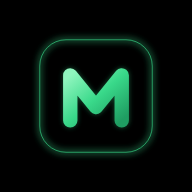
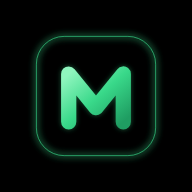
v2.8: ไอคอนแอพเป็นแบบเดียวกับโลโก้ในแอพ ขยายชดเชยที่มือถือย่อให้ (โลโก้ในแอพคงเดิม)
- หลังย้อน v2.7 โลโก้ในแอพกลับเป็นแบบเดิมที่ Han ชอบ
- ไอคอนแอพ: คงสัดส่วนกรอบกับตัว M เหมือนโลโก้ในแอพทุกอย่าง แต่ขยายทั้งก้อน 1.06 เท่า ให้กรอบชิดขอบที่มือถือแสดงจริง (เดิมขอบเล็กลงเพราะมือถือครอปไอคอนเหลือประมาณ 65%)
- PNG 192/512 สร้างใหม่

Claude-Session: https://claude.ai/code/session_01C2wS7NNPrkVhQf5fYeCgCQ

Changed region(s): [[0.1562, 0.1562, 0.8438, 0.8438], [0.3125, 0.3438, 0.6875, 0.6875]]

diff --git a/sub/app.js b/sub/app.js
@@ -1,17 +1,17 @@
-import { alignLinesToWords, refineSegmentBoundariesWithEnergy } from './aligner.js?v=2.6';
-import { buildSrt } from './srt.js?v=2.6';
-import { callGroqWhisper, buildTranscriptForGemini, callGeminiSplit, removeThaiSpaces, GEMINI_MODELS, DEFAULT_GEMINI_MODEL } from './ai.js?v=2.6';
-import { loadMediabunny, decodeAudioFile, isVideoFile, extractAudioFromVideo, audioBufferToWavBlob } from './media.js?v=2.6';
-import { CANVAS_W, FONT_FAMILY, BOTTOM_MARGIN_RATIO, renderVideo } from './render.js?v=2.6';
-import { createTrimEditor } from './waveform.js?v=2.6';
-import { setupFineSlider, createStagedProgress, escapeHtml, getReliableDuration } from './ui.js?v=2.6';
-import { setupVoicePicker } from './voicepick.js?v=2.6';
+import { alignLinesToWords, refineSegmentBoundariesWithEnergy } from './aligner.js?v=2.8';
+import { buildSrt } from './srt.js?v=2.8';
+import { callGroqWhisper, buildTranscriptForGemini, callGeminiSplit, removeThaiSpaces, GEMINI_MODELS, DEFAULT_GEMINI_MODEL } from './ai.js?v=2.8';
+import { loadMediabunny, decodeAudioFile, isVideoFile, extractAudioFromVideo, audioBufferToWavBlob } from './media.js?v=2.8';
+import { CANVAS_W, FONT_FAMILY, BOTTOM_MARGIN_RATIO, renderVideo } from './render.js?v=2.8';
+import { createTrimEditor } from './waveform.js?v=2.8';
+import { setupFineSlider, createStagedProgress, escapeHtml, getReliableDuration } from './ui.js?v=2.8';
+import { setupVoicePicker } from './voicepick.js?v=2.8';
 
 // ===== ที่เก็บข้อมูลร่วมกับแอพหลัก (MWStore จาก ../store.js) — service worker ของแอพหลักคุมหน้านี้อยู่แล้ว =====
   const S = window.MWStore;
   await S.ready;
   // สคริปต์ของแอพหลักที่หน้านี้ยืมใช้ — โหลดหลังข้อมูลพร้อม ถ้าโหลดไม่ได้ก็ใช้ต่อได้ (budget = เพดานค่า AI ตอนถอยไป OpenRouter · r2 + voicestore = เสียงที่เจนไว้)
-  for (const src of ['../budget.js?v=2.6', '../r2.js?v=2.6', '../voicestore.js?v=2.6']) {
+  for (const src of ['../budget.js?v=2.8', '../r2.js?v=2.8', '../voicestore.js?v=2.8']) {
     await new Promise((ok) => { const el = document.createElement('script'); el.src = src; el.onload = el.onerror = ok; document.body.appendChild(el); });
   }
   const GROQ_KEY = 'mw_groq_key_v1', GEMINI_KEY = 'mw_gemini_key_v1', OR_KEY = 'mw_openrouter_key_v1', SUB_CFG = 'mw_sub_cfg_v1'; // key ตั้งที่แอพหลัก > ตั้งค่า

diff --git a/footage.html b/footage.html
@@ -5,12 +5,12 @@
 <meta name="viewport" content="width=device-width, initial-scale=1, viewport-fit=cover" />
 <meta name="theme-color" content="#0b0e0d" />
 <title>ฟุตเทจ · Meowrin factory</title>
-<link rel="icon" type="image/png" href="icon-192.png?v=2.6">
-<link rel="apple-touch-icon" href="icon-192.png?v=2.6">
+<link rel="icon" type="image/png" href="icon-192.png?v=2.8">
+<link rel="apple-touch-icon" href="icon-192.png?v=2.8">
 <link rel="preconnect" href="https://fonts.googleapis.com">
 <link rel="preconnect" href="https://fonts.gstatic.com" crossorigin>
 <link href="https://fonts.googleapis.com/css2?family=IBM+Plex+Sans+Thai:wght@400;500;600&family=Mitr:wght@500&display=swap" rel="stylesheet">
-<link rel="stylesheet" href="footage.css?v=2.6">
+<link rel="stylesheet" href="footage.css?v=2.8">
 </head>
 <body>
 <header>
@@ -232,6 +232,6 @@
 <input id="pickDocs" type="file" multiple hidden><!-- ไม่ใส่ accept → Android เปิดแอพไฟล์ (เข้าโฟลเดอร์ + เลือกทั้งหมดได้) แทนตัวเลือกรูป -->
 <video id="vid" muted playsinline preload="auto" style="position:fixed;left:-9999px;width:2px;height:2px"></video>
 
-<script src="store.js?v=2.6" data-boot="icons.js?v=2.6 dialog.js?v=2.6 budget.js?v=2.6 footage-core.js?v=2.6 r2.js?v=2.6 footage.js?v=2.6 footage-find.js?v=2.6 footage-dup.js?v=2.6 footage-audit.js?v=2.6 footage-cloud.js?v=2.6 mp4fix.js?v=2.6 footage-stitch.js?v=2.6 voicestore.js?v=2.6 footage-plan.js?v=2.6 gdrive.js?v=2.6"></script>
+<script src="store.js?v=2.8" data-boot="icons.js?v=2.8 dialog.js?v=2.8 budget.js?v=2.8 footage-core.js?v=2.8 r2.js?v=2.8 footage.js?v=2.8 footage-find.js?v=2.8 footage-dup.js?v=2.8 footage-audit.js?v=2.8 footage-cloud.js?v=2.8 mp4fix.js?v=2.8 footage-stitch.js?v=2.8 voicestore.js?v=2.8 footage-plan.js?v=2.8 gdrive.js?v=2.8"></script>
 </body>
 </html>

diff --git a/index.html b/index.html
@@ -4,19 +4,19 @@
 <meta charset="UTF-8" />
 <meta name="viewport" content="width=device-width, initial-scale=1, viewport-fit=cover" />
 <meta name="theme-color" content="#0b0e0d" />
-<link rel="manifest" href="manifest.json?v=2.6">
+<link rel="manifest" href="manifest.json?v=2.8">
 <meta name="mobile-web-app-capable" content="yes">
 <meta name="apple-mobile-web-app-capable" content="yes">
 <meta name="apple-mobile-web-app-status-bar-style" content="black-translucent">
 <meta name="apple-mobile-web-app-title" content="Meowrin">
-<link rel="icon" type="image/png" href="icon-192.png?v=2.6">
-<link rel="apple-touch-icon" href="icon-192.png?v=2.6">
+<link rel="icon" type="image/png" href="icon-192.png?v=2.8">
+<link rel="apple-touch-icon" href="icon-192.png?v=2.8">
 <title>Meowrin factory</title>
 <link rel="preconnect" href="https://fonts.googleapis.com">
 <link rel="preconnect" href="https://fonts.gstatic.com" crossorigin>
 <link href="https://fonts.googleapis.com/css2?family=IBM+Plex+Sans+Thai:wght@400;500;600&family=Mitr:wght@500&display=swap" rel="stylesheet">
-<link rel="stylesheet" href="style.css?v=2.6">
-<link rel="stylesheet" href="sheet.css?v=2.6">
+<link rel="stylesheet" href="style.css?v=2.8">
+<link rel="stylesheet" href="sheet.css?v=2.8">
 </head>
 <body>
 <div class="wrap">
@@ -400,6 +400,6 @@
   </div>
 </div>
 
-<script src="store.js?v=2.6" data-boot="version.js?v=2.6 icons.js?v=2.6 dialog.js?v=2.6 budget.js?v=2.6 sync.js?v=2.6 app.js?v=2.6 llm.js?v=2.6 ai.js?v=2.6 r2.js?v=2.6 voicestore.js?v=2.6 tts.js?v=2.6 gdrive.js?v=2.6"></script>
+<script src="store.js?v=2.8" data-boot="version.js?v=2.8 icons.js?v=2.8 dialog.js?v=2.8 budget.js?v=2.8 sync.js?v=2.8 app.js?v=2.8 llm.js?v=2.8 ai.js?v=2.8 r2.js?v=2.8 voicestore.js?v=2.8 tts.js?v=2.8 gdrive.js?v=2.8"></script>
 </body>
 </html>

diff --git a/sub/index.html b/sub/index.html
@@ -4,22 +4,22 @@
 <meta charset="UTF-8">
 <meta name="viewport" content="width=device-width, initial-scale=1.0, maximum-scale=1.0, viewport-fit=cover">
 <title>ซับจอเขียว · Meowrin factory</title>
-<link rel="icon" type="image/png" href="../icon-192.png?v=2.6">
+<link rel="icon" type="image/png" href="../icon-192.png?v=2.8">
 
 <!-- ===== PWA: ใช้ manifest และ service worker ของแอพหลัก (หน้านี้อยู่ในขอบเขตเดียวกัน) ===== -->
-<link rel="manifest" href="../manifest.json?v=2.6">
+<link rel="manifest" href="../manifest.json?v=2.8">
 <meta name="theme-color" content="#0b0e0d">
 <meta name="mobile-web-app-capable" content="yes">
 <meta name="apple-mobile-web-app-capable" content="yes">
 <meta name="apple-mobile-web-app-status-bar-style" content="black-translucent">
 <meta name="apple-mobile-web-app-title" content="Meowrin">
-<link rel="apple-touch-icon" href="../icon-192.png?v=2.6">
+<link rel="apple-touch-icon" href="../icon-192.png?v=2.8">
 <!-- ===== จบบล็อก PWA ===== -->
 
 <link rel="preconnect" href="https://fonts.googleapis.com">
 <link rel="preconnect" href="https://fonts.gstatic.com" crossorigin>
 <link href="https://fonts.googleapis.com/css2?family=Kanit:wght@400;500;700&display=swap" rel="stylesheet">
-<link rel="stylesheet" href="style.css?v=2.6">
+<link rel="stylesheet" href="style.css?v=2.8">
 </head>
 
 <body>
@@ -284,7 +284,7 @@
   </div>
 </div>
 
-<script src="../store.js?v=2.6"></script>
-<script type="module" src="app.js?v=2.6"></script>
+<script src="../store.js?v=2.8"></script>
+<script type="module" src="app.js?v=2.8"></script>
 </body>
 </html>

diff --git a/sub/waveform.js b/sub/waveform.js
@@ -1,7 +1,7 @@
 // waveform.js — กล่องตัดท่อนเสียง: วาดคลื่นเสียง ซูม/บีบนิ้ว แบ่ง/ลบท่อน (ลบแล้วเสียงที่เหลือต่อกันแบบ CapCut) เลิกทำ/ทำซ้ำ
 // แยกออกจาก app.js (v1.16) · state ทั้งหมดของคลื่นเสียงอยู่ในนี้ที่เดียว app.js คุยผ่านค่าที่ createTrimEditor คืนให้
 // audioEl = <audio> ตัวเดียวกับที่ app.js ใช้ (เล่น/กรอ) · trimCard = <details> กล่องตัดท่อนเสียง
-import { computePeaks, buildTrimmedAudioBuffer, audioBufferToWavBlob } from './media.js?v=2.6';
+import { computePeaks, buildTrimmedAudioBuffer, audioBufferToWavBlob } from './media.js?v=2.8';
 
 export function createTrimEditor({ audioEl, trimCard }){
   const waveformScroll = document.getElementById('waveformScroll');

diff --git a/sub/voicepick.js b/sub/voicepick.js
@@ -1,7 +1,7 @@
 // voicepick.js — เลือกเสียงที่เจนไว้ในแอพหลัก (MWVoice ในเครื่อง + คลัง R2 ที่ยังไม่ได้ดึงมา) แยกออกจาก app.js (v1.16)
 // ทางเข้า 2 ทาง: ปุ่ม "เลือกจากเสียงที่เจนไว้ในแอพ" และลิงก์ ?voice=รหัส จากปุ่ม "ทำซับ" ในแท็บเสียงของแอพหลัก
 // loadAudioFile = ตัวเดียวกับตอนแนบไฟล์ (app.js) · rawScriptInput = ช่องสคริปต์ดิบ · fileInfo = กล่องชื่อไฟล์
-import { escapeHtml } from './ui.js?v=2.6';
+import { escapeHtml } from './ui.js?v=2.8';
 
 export function setupVoicePicker({ loadAudioFile, rawScriptInput, fileInfo }){
   const pickVoiceBtn = document.getElementById('pickVoiceBtn');

diff --git a/sub/media.js b/sub/media.js
@@ -1,6 +1,6 @@
 // media.js — ถอดรหัส/ตัด/แปลงเสียง และโหลดไลบรารี mediabunny
 
-const MEDIABUNNY_URL = './vendor/mediabunny.min.js?v=2.6'; // mediabunny 1.54.0 เก็บไว้ในโปรเจกต์ (ไม่ต้องพึ่งอินเทอร์เน็ตตอนเรนเดอร์)
+const MEDIABUNNY_URL = './vendor/mediabunny.min.js?v=2.8'; // mediabunny 1.54.0 เก็บไว้ในโปรเจกต์ (ไม่ต้องพึ่งอินเทอร์เน็ตตอนเรนเดอร์)
 let mediabunnyModulePromise = null;
 export function loadMediabunny(){
   if (!mediabunnyModulePromise) mediabunnyModulePromise = import(MEDIABUNNY_URL);

diff --git a/version.js b/version.js
@@ -2,7 +2,7 @@
    แก้ด้วย `node bump-version.mjs X.Y` เท่านั้น (บวก ?v= ของทุกไฟล์ให้ตรงกันด้วย) · ไม่ต้องแสดงเลขรุ่นที่อื่นอีก */
 (function(){
   "use strict";
-  var VERSION = "2.6";
+  var VERSION = "2.8";
   var el = document.getElementById("appVersion");
   if(el) el.textContent = "Meowrin factory v" + VERSION;
 })();

diff --git a/CLAUDE.md b/CLAUDE.md
@@ -25,7 +25,7 @@
 - `llm.js` ชั้นเรียก AI (`MW.llm.call`): Gemini API ตรง (ฟรี, `generateContent`) ใช้เฉพาะคำขอที่ผู้เรียกใส่ `opt.free` (งานเล็ก ข้อความล้วน เช่น แก้บท) + โมเดล Google + มี key + เปิดติ๊ก "ใช้ Gemini ฟรี (งานเล็ก)" (`cfg.gem`) · ดูวิดีโอ/เขียนบทหลักใช้ OpenRouter เสมอ (ทดสอบแล้ว Gemini ฟรีกับวิดีโอช้า/ล่มบ่อย) · โควตาเต็ม/key ผิด/ล่ม/ช้าเกิน 90 วิ → ถอยไป OpenRouter อัตโนมัติ · `#spendInfo` โชว์ยอดจริงจาก OpenRouter (`GET /api/v1/key`: วันนี้/สัปดาห์/เดือน UTC รวมทุกการใช้ key) ถ้าดึงไม่ได้ใช้ยอดที่แอพนับเอง (`mw_cost_v1`) — โหลดหลัง app.js ก่อน ai.js
 - `ai.js` ทำบท/ประวัติ/prompt (เรียก AI ผ่าน `callAI` → `MW.llm.call`) — โหลดหลัง llm.js
 - `tts.js` สร้างเสียงจากบทด้วย ElevenLabs (ฟัง/แชร์/ดาวน์โหลด) — โหลดหลัง ai.js อ่านบทจาก `#vText` และฟัง event `mw:script` · ชีตตั้งค่าเสียง `#vSheet`
-- `manifest.json`, `sw.js` PWA (sw เป็น passthrough ห้ามแคช API) · ชื่อแอพ "Meowrin factory" (M ตัวใหญ่ factory ตัวเล็ก) · ไอคอนแอพ = ตัว M เขียวเล็กๆ กลางกรอบมนที่มีแสงเขียวเรืองรอบขอบ บนพื้นดำสนิท `#000` เต็มภาพ (กลืนกับวอลเปเปอร์ดำของ Han ไม่ให้คล้าย Gmail) · **มือถือครอปไอคอนเหลือแค่ตรงกลางประมาณ 64% ของภาพ** (ที่ Han เห็นบนหน้าจอ) เนื้อหาสำคัญต้องอยู่ในกรอบกลางนั้น ตัว M กับกรอบแสงจึงเล็กกว่าเต็มภาพมาก ต้นฉบับ `icon.svg` → สร้าง `icon-192.png`/`icon-512.png` ด้วย `node tools/render-icons.mjs` (ไฟล์ PNG ต้องอยู่ใน manifest เพราะ Android รับ PNG เสถียรกว่า SVG) · **URL ไอคอน/manifest ต้องมี `?v=` เสมอ** (`icon-192.png?v=X.Y`, `manifest.json?v=X.Y` ทั้งใน html และ manifest.json — `bump-version.mjs` บวกให้เอง) ไม่งั้นเบราว์เซอร์มือถือจำไอคอนเก่า ทั้งที่ลบแล้วติดตั้งใหม่ (เจอตอน v2.4 → Han ติดตั้งใหม่แล้วยังเห็นไอคอนเก่า) · มือถือจำไอคอนตอนติดตั้ง เปลี่ยนไฟล์แล้วอาจไม่เปลี่ยนทันที ต้องให้ Han ลบไอคอนแล้วเพิ่มใหม่ · แถบหัวหน้าหลัก: โลโก้ = หน้าตาเดียวกับไอคอนแอพ (SVG ใน index.html คัดจากส่วนกลาง 328px ของ icon.svg: ถ้าแก้ icon.svg ให้แก้โลโก้ตามด้วย) + ชื่อบรรทัดเดียว ไม่มีบรรทัดคำอธิบาย · ปุ่มย้อนกลับของหน้าฟุตเทจ/ซับเป็นปุ่มสี่เหลี่ยมมุมโค้งใส่ลูกศร (`a.back` + ไอคอน `back`)
+- `manifest.json`, `sw.js` PWA (sw เป็น passthrough ห้ามแคช API) · ชื่อแอพ "Meowrin factory" (M ตัวใหญ่ factory ตัวเล็ก) · ไอคอนแอพ = ตัว M เขียวเล็กๆ กลางกรอบมนที่มีแสงเขียวเรืองรอบขอบ บนพื้นดำสนิท `#000` เต็มภาพ (กลืนกับวอลเปเปอร์ดำของ Han ไม่ให้คล้าย Gmail) · **มือถือครอปไอคอนเหลือแค่ตรงกลางประมาณ 64% ของภาพ** (ที่ Han เห็นบนหน้าจอ) เนื้อหาสำคัญต้องอยู่ในกรอบกลางนั้น ตัว M กับกรอบแสงจึงเล็กกว่าเต็มภาพมาก · **ไอคอน = โลโก้ในแอพ (Han ชอบโลโก้แบบนี้) ขยายทั้งก้อน 1.06 เท่าให้กรอบชิดขอบหน้าต่างที่มองเห็น**: โลโก้ rim 106..406 / M สเกล .66 → icon.svg rim 97..415 / M สเกล .70 · ห้ามขยาย M เกินสัดส่วนนี้ (v2.7 ขยาย M เป็น .9 แล้ว Han สั่งย้อน) · แก้โลโก้ในแอพเมื่อ Han สั่งเท่านั้น ต้นฉบับ `icon.svg` → สร้าง `icon-192.png`/`icon-512.png` ด้วย `node tools/render-icons.mjs` (ไฟล์ PNG ต้องอยู่ใน manifest เพราะ Android รับ PNG เสถียรกว่า SVG) · **URL ไอคอน/manifest ต้องมี `?v=` เสมอ** (`icon-192.png?v=X.Y`, `manifest.json?v=X.Y` ทั้งใน html และ manifest.json — `bump-version.mjs` บวกให้เอง) ไม่งั้นเบราว์เซอร์มือถือจำไอคอนเก่า ทั้งที่ลบแล้วติดตั้งใหม่ (เจอตอน v2.4 → Han ติดตั้งใหม่แล้วยังเห็นไอคอนเก่า) · มือถือจำไอคอนตอนติดตั้ง เปลี่ยนไฟล์แล้วอาจไม่เปลี่ยนทันที ต้องให้ Han ลบไอคอนแล้วเพิ่มใหม่ · แถบหัวหน้าหลัก: โลโก้ = หน้าตาเดียวกับไอคอนแอพ (SVG ใน index.html คัดจากส่วนกลาง 328px ของ icon.svg: ถ้าแก้ icon.svg ให้แก้โลโก้ตามด้วย) + ชื่อบรรทัดเดียว ไม่มีบรรทัดคำอธิบาย · ปุ่มย้อนกลับของหน้าฟุตเทจ/ซับเป็นปุ่มสี่เหลี่ยมมุมโค้งใส่ลูกศร (`a.back` + ไอคอน `back`)
 - หน้าแยก `footage.html` (คลังฟุตเทจ + ผู้กำกับ AI, เปิดที่ /footage.html) แท็บ: **คลัง | อัปโหลด | ผู้กำกับ | ตั้งค่า** (รื้อเมื่อ 2026-10-16: ตัดโหมดเลือกฉาก/ถาด/ปุ่มแชร์/ตัวเลือก AI ในค้นหา/เปลี่ยนชื่ออัลบั้ม/ปุ่มคลิปซ้ำ/debug ออกแล้ว อย่าเพิ่มกลับโดยไม่ถาม Han)
   - `footage-core.js` (`window.FT`): ตั้งค่า, IndexedDB, อ่านเฟรมจาก `<video>` ทุก 1 วิ หาจุดตัดฉาก, `describe` ส่งรูปหลายฉากต่อคำขอไป OpenRouter ตอบ JSON · **ดัชนีรุ่น 2 (`AI_V`, ละเอียด)**: ต่อฉากส่งรูปเดียวที่เรียงเฟรมต้น/กลาง/ท้าย 1-3 เฟรม (`strip`, กว้าง 320/เฟรม ไม่เก็บลงฐานข้อมูล) + ป้ายเพิ่ม `shot` (close/medium/wide) `intensity` 1-5 `motion` `mood` `arc` `event` `issues` (watermark/subtitles/blurry/text/black) · `deepFrames(v, src, rec)` จับเฟรมใหม่ตามช่วงฉากเดิม src = File หรือลิงก์คลัง (สตรีมเฉพาะช่วง, `crossOrigin` anonymous) · ผู้กำกับ: `beats(script, mode)` แบ่งบทเป็นช็อต (long = ช็อตละประโยค, fast = วลีละ 1-3 วิ เอ่ยชื่อใครภาพต้องเป็นคนนั้น = สไตล์ช่อง) · `direct(script, items, prev)` ส่งรูปผู้สมัครของหลายช็อตให้ AI ดูภาพจริงแล้วเลือก best+alts
   - `footage.js` แท็บ อัปโหลด: ปุ่มแอพไฟล์ (`filesDocs` ไม่มี accept เลือกทั้งโฟลเดอร์ได้, อัลบั้ม Xiaomi = Pictures/Gallery/owner/<อัลบั้ม>, ตัดไฟล์ที่ไม่ใช่วิดีโอ) → คิวทำดัชนี/พัก/ทำต่อ/งบ/Wake Lock + อัปขึ้นคลังอัตโนมัติเมื่อตั้งค่าคลังไว้ (คลิปที่ทำแล้ว = อัปอย่างเดียว, รูปรุ่นเก่า = วาดใหม่ฟรี) · คลิปใหม่ได้ดัชนีรุ่น 2 เลย · แผง "ตรวจตัวละครซ้ำ" (`rcBtn`, `FT.recognize` + `ROSTER` 38 ตัวละครพร้อมลักษณะเด่น key ต้องตรง `NAMES`): ส่งรูป `sc.img` 480px ที่เก็บไว้ 12 ฉาก/คำขอ ถามเจาะจงว่ามีใครในรายชื่อ → `U.addChars` เติมเฉพาะที่ขาด (ไม่ลบ, ข้าม `ai.fixed`, ตั้ง `ai.rc=1`) บันทึกทุกรอบ หยุด/ทำต่อได้ ≈ $0.0012/ฉาก ไม่ต้องเปิดไฟล์วิดีโอ · แผง "ดัชนีละเอียด" ปุ่มอัปเกรดคลิปเก่า (`aiV`<2) เข้าคิวโหมด `deep` (`deepClip`: เฟรมจากไฟล์ในเครื่องหรือคลัง → `describeAll` ส่วน AI ที่ใช้ร่วมกับทำดัชนีใหม่ → ทับ `sc.ai` + `aiV`, ค่า AI ประมาณ 1.6× ของรุ่นเดิม) · ต้นทุน/เวลา · ตั้งค่า/สำรอง · รวมคลิปซ้ำเองตอนเปิดหน้า (ขนาด+ความยาวเท่ากัน ไม่ดูชื่อ เก็บตัวที่มี `r2`) · ส่ง `FT.ui` พื้นฐาน
